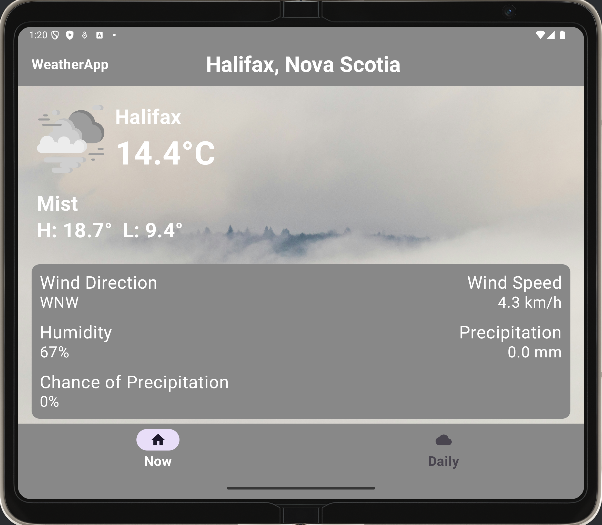
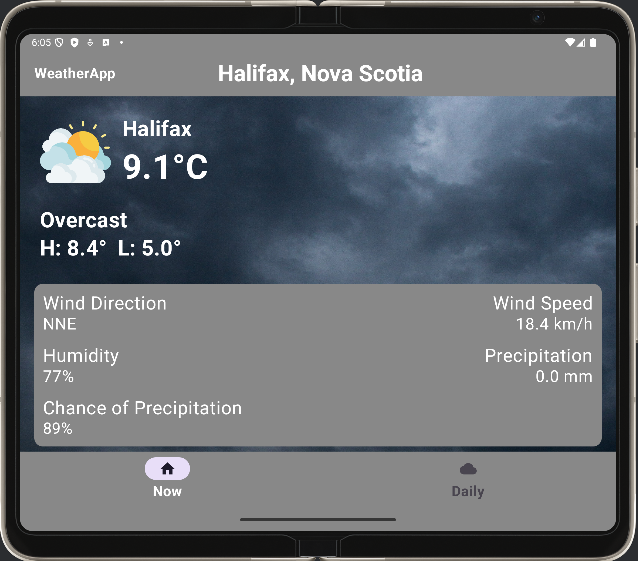
new screenshots and live weather now works for both currentweather screen and dailyforecast

diff --git a/app/src/main/java/com/example/weatherapp/ui/screens/CurrentWeather.kt b/app/src/main/java/com/example/weatherapp/ui/screens/CurrentWeather.kt
@@ -37,7 +37,7 @@ fun CurrentWeatherScreen(weather: Weather?) {
     // Pick background image based on weather condition text
     val backgroundImage = when {
         conditionText.contains("Sunny", ignoreCase = true) -> R.drawable.sunny_background
-        conditionText.contains("Cloud", ignoreCase = true) -> R.drawable.cloudy_background
+        conditionText.contains("Cloud", ignoreCase = true) || conditionText.contains("Overcast", ignoreCase = true) -> R.drawable.cloudy_background
         conditionText.contains("Rain", ignoreCase = true) -> R.drawable.rainy_background
         conditionText.contains("Snow", ignoreCase = true) -> R.drawable.snow_background
         // For fog or mist conditions, show fog background
@@ -52,7 +52,7 @@ fun CurrentWeatherScreen(weather: Weather?) {
     // Pick icon image based on weather condition text
     val iconId = when {
         conditionText.contains("Sunny", ignoreCase = true) -> R.drawable.sunny
-        conditionText.contains("Cloud", ignoreCase = true) -> R.drawable.cloudy
+        conditionText.contains("Cloud", ignoreCase = true) || conditionText.contains("Overcast", ignoreCase = true) -> R.drawable.cloudy
         conditionText.contains("Rain", ignoreCase = true) -> R.drawable.rainy
         conditionText.contains("Snow", ignoreCase = true) -> R.drawable.snow
         conditionText.contains("Fog", ignoreCase = true) || conditionText.contains(

diff --git a/app/src/main/java/com/example/weatherapp/ui/screens/DailyForecast.kt b/app/src/main/java/com/example/weatherapp/ui/screens/DailyForecast.kt
@@ -34,7 +34,8 @@ fun DailyForecastScreen(weather: Weather?) {
     // Pick background image based on current weather
     val backgroundImage = when {
         currentConditionText.contains("Sunny", ignoreCase = true) -> R.drawable.sunny_background
-        currentConditionText.contains("Cloud", ignoreCase = true) -> R.drawable.cloudy_background
+        currentConditionText.contains("Cloud", ignoreCase = true) || currentConditionText.contains("Overcast", ignoreCase = true)
+        -> R.drawable.cloudy_background
         currentConditionText.contains("Rain", ignoreCase = true) -> R.drawable.rainy_background
         currentConditionText.contains("Snow", ignoreCase = true) -> R.drawable.snow_background
         currentConditionText.contains("Fog", ignoreCase = true) || currentConditionText.contains("Mist", ignoreCase = true) -> R.drawable.fog_background

diff --git a/app/src/main/java/com/example/weatherapp/MainActivity.kt b/app/src/main/java/com/example/weatherapp/MainActivity.kt
@@ -96,7 +96,7 @@ class MainActivity : ComponentActivity() {
                     // Get latitude, longitude as "lat,lng" string
                     val latLng = "${it.latitude},${it.longitude}"
                     // Fetch weather for this location from API
-                    viewModel.fetchWeatherByLocation(latLng)
+                    viewModel.fetchWeatherByLocation("Halifax")  // Use fixed city name for consistent forecast data
                     // Update location text shown in UI
                     viewModel.updateLocation("Halifax, Nova Scotia")
                 }

diff --git a/app/src/main/java/com/example/weatherapp/MainViewModel.kt b/app/src/main/java/com/example/weatherapp/MainViewModel.kt
@@ -72,6 +72,8 @@ class MainViewModel : ViewModel() {
                     println("${day}: ${day.day.condition.text}")
                 }
                 _weather.value = response  // Update weather state with API response
+                println("Returned days: ${response.forecast.forecastday.size}")  // Debug: print number of forecast days
+
             } catch (e: Exception) {
                 e.printStackTrace()  // Print error if call fails
             }
